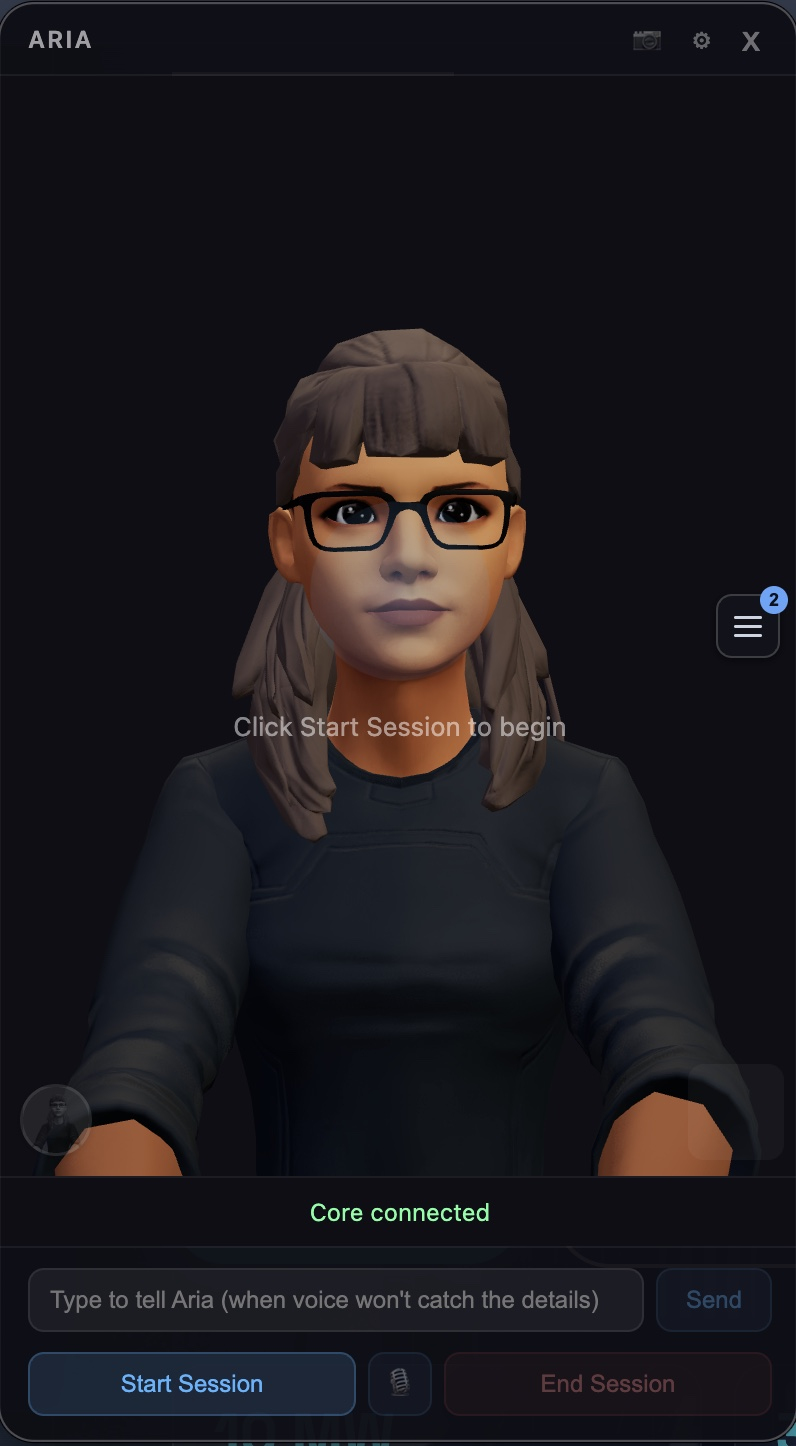
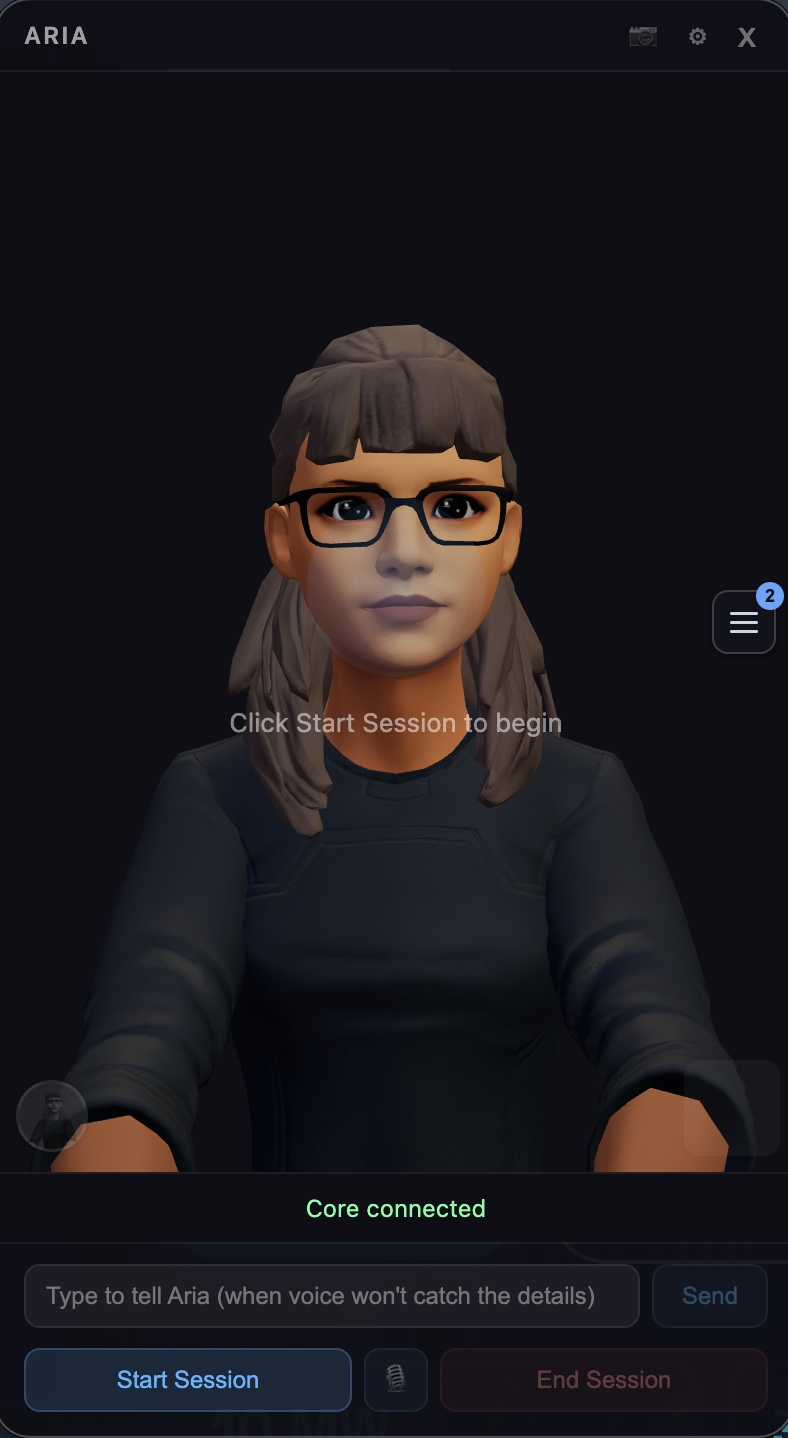
Selam landing: crop hero screenshot edges to remove screenshot halo
Trim 4px off each side of the source PNG before re-encoding to
JPG (788x1438, 88 quality) and WebP (86 quality). Removes the
1-2px anti-aliased ring macOS's screenshot tool captured around
the window — title-bar corners no longer read as light fringe.
Cache-buster bumped to v=7 so CDN edges refetch.

diff --git a/selam-landing.html b/selam-landing.html
@@ -1512,9 +1512,9 @@ footer { border-top: 1px solid var(--line); padding: 3rem 0; font-family: var(--
            animations on a single node). -->
       <div class="hero-screenshot-wrap">
         <picture>
-          <source srcset="assets/selam-app.webp?v=6" type="image/webp">
+          <source srcset="assets/selam-app.webp?v=7" type="image/webp">
           <img
-            src="assets/selam-app.jpg?v=6"
+            src="assets/selam-app.jpg?v=7"
             alt="Selam app — 3D avatar rendering on-device, no cloud avatar service in the loop"
             class="hero-screenshot"
             loading="eager"
